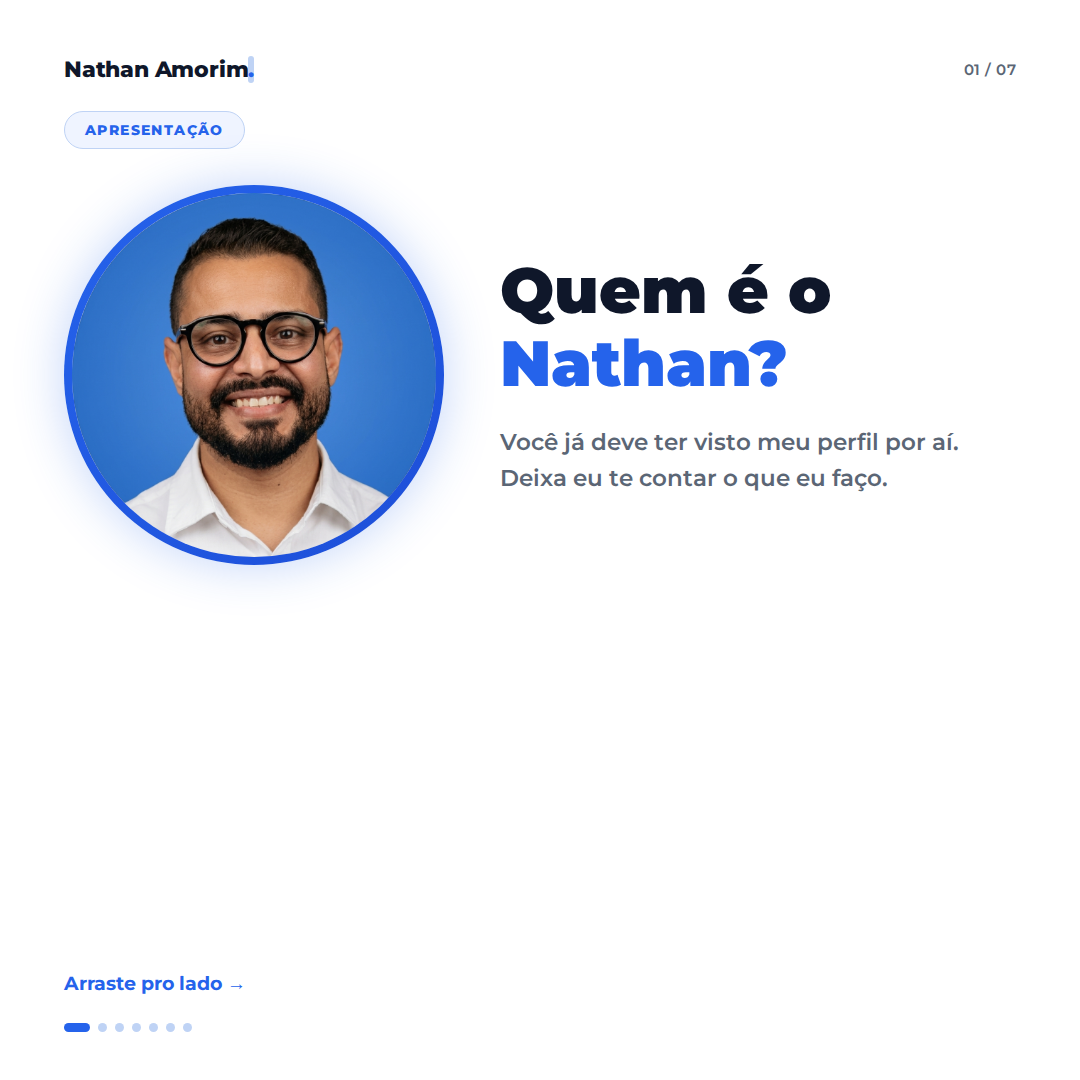
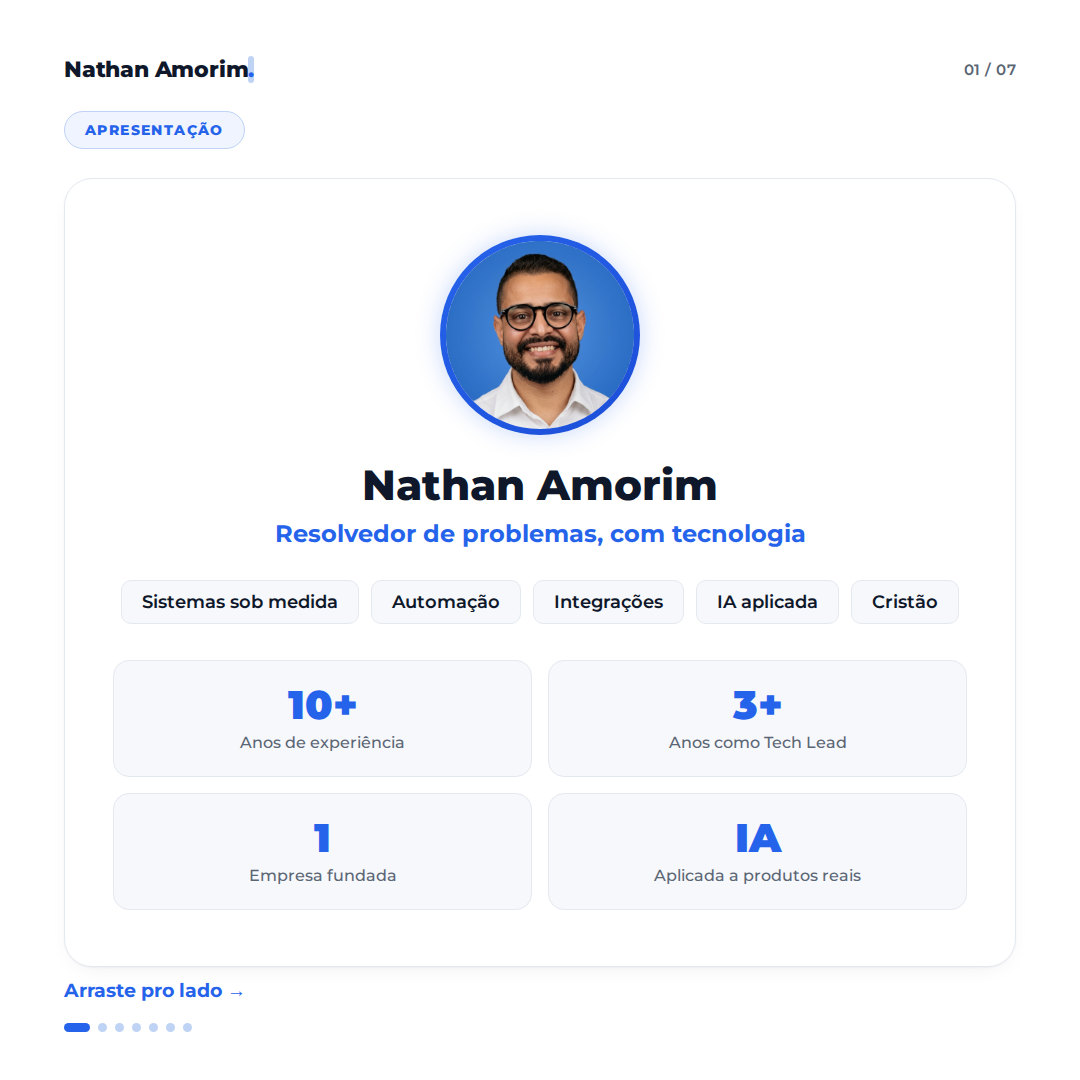
Refaz a capa do carrossel como replica do hero-card da LP
Slide 01 agora reproduz o .hero-card de src/pages/index.astro (avatar,
nome, tagline, chips e grid de estatisticas), sem endereco/localizacao
e com o chip Cristao adicionado, a pedido do Nathan.

diff --git a/sdd/marketing/social/carrossel-02-quem-e-nathan/README.md b/sdd/marketing/social/carrossel-02-quem-e-nathan/README.md
@@ -19,8 +19,12 @@ pelo Nathan. O contexto de risco (sistema refeito do zero, manutenção
 travada, custo alto de manter) reaproveita o case já publicado na home do
 site (`src/pages/index.astro`, `riskyConsequences`) e no carrossel 01. As
 estatísticas do slide 06 (10+ anos, 3+ anos liderando equipes, 1 empresa
-fundada) vêm do `.hero-card` da home. O chip "Cristão" é um dado pessoal
-informado diretamente pelo Nathan, não extraído do site.
+fundada) vêm do `.hero-card` da home. O slide 01 (capa) reproduz o
+`.hero-card` quase literalmente — mesmo avatar, nome, tagline "Resolvedor
+de problemas, com tecnologia" e os 4 chips originais (Sistemas sob medida,
+Automação, Integrações, IA aplicada) — mas sem endereço/localização e com
+o chip "Cristão" adicionado, ambos a pedido do Nathan. O chip "Cristão" é
+um dado pessoal informado diretamente por ele, não extraído do site.
 
 ## Identidade visual
 Extraída diretamente do design system em produção do site
@@ -35,7 +39,10 @@ usado em nenhum slide, e o texto evita traço e sublinhado (só vírgulas e
 pontos).
 
 ## Slides
-1. `01.png` — capa: só a foto do Nathan e a pergunta "Quem é o Nathan?"
+1. `01.png` — capa: réplica fiel do card `.hero-card` da landing page
+   (`src/pages/index.astro`, mesmo avatar, nome, tagline, chips e grid de
+   estatísticas), sem o endereço/localização e com o chip "Cristão"
+   adicionado
 2. `02.png` — a ideia central: "Eu resolvo problemas com tecnologia."
 3. `03.png` — contexto: a IA ajuda a criar sistemas muito mais rápido
 4. `04.png` — o risco: criar rápido sem planejamento custa caro depois
